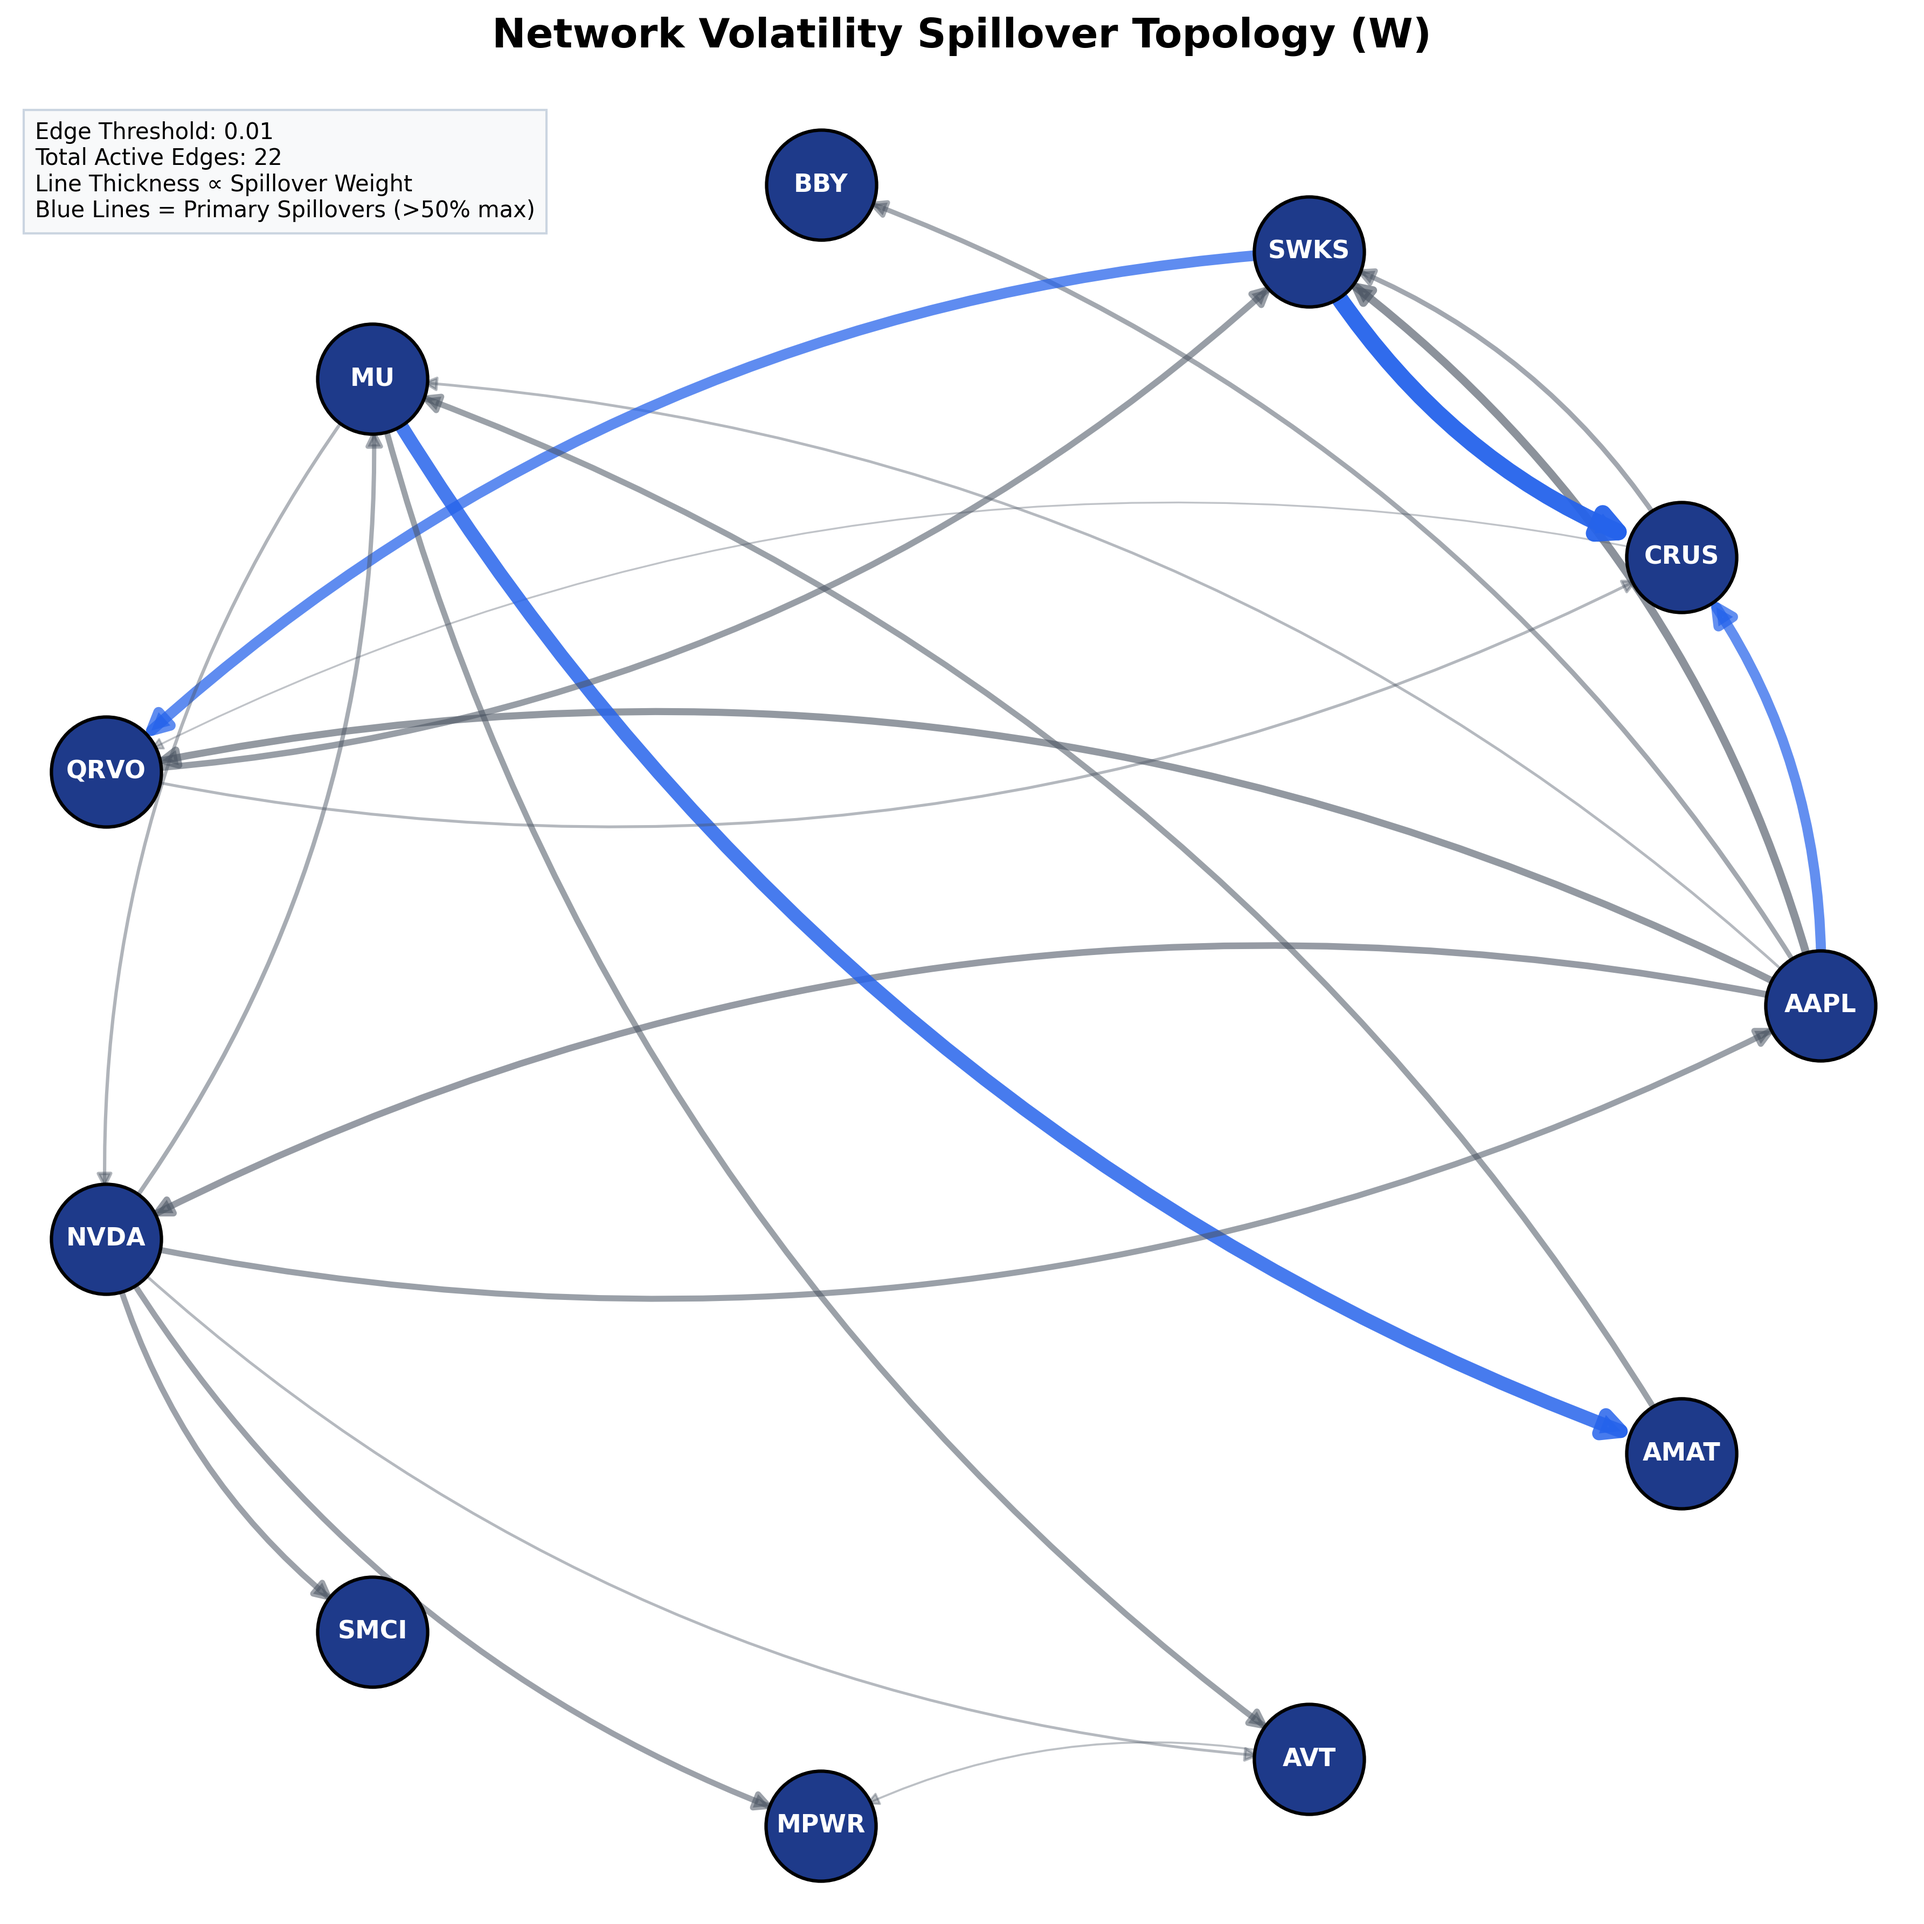
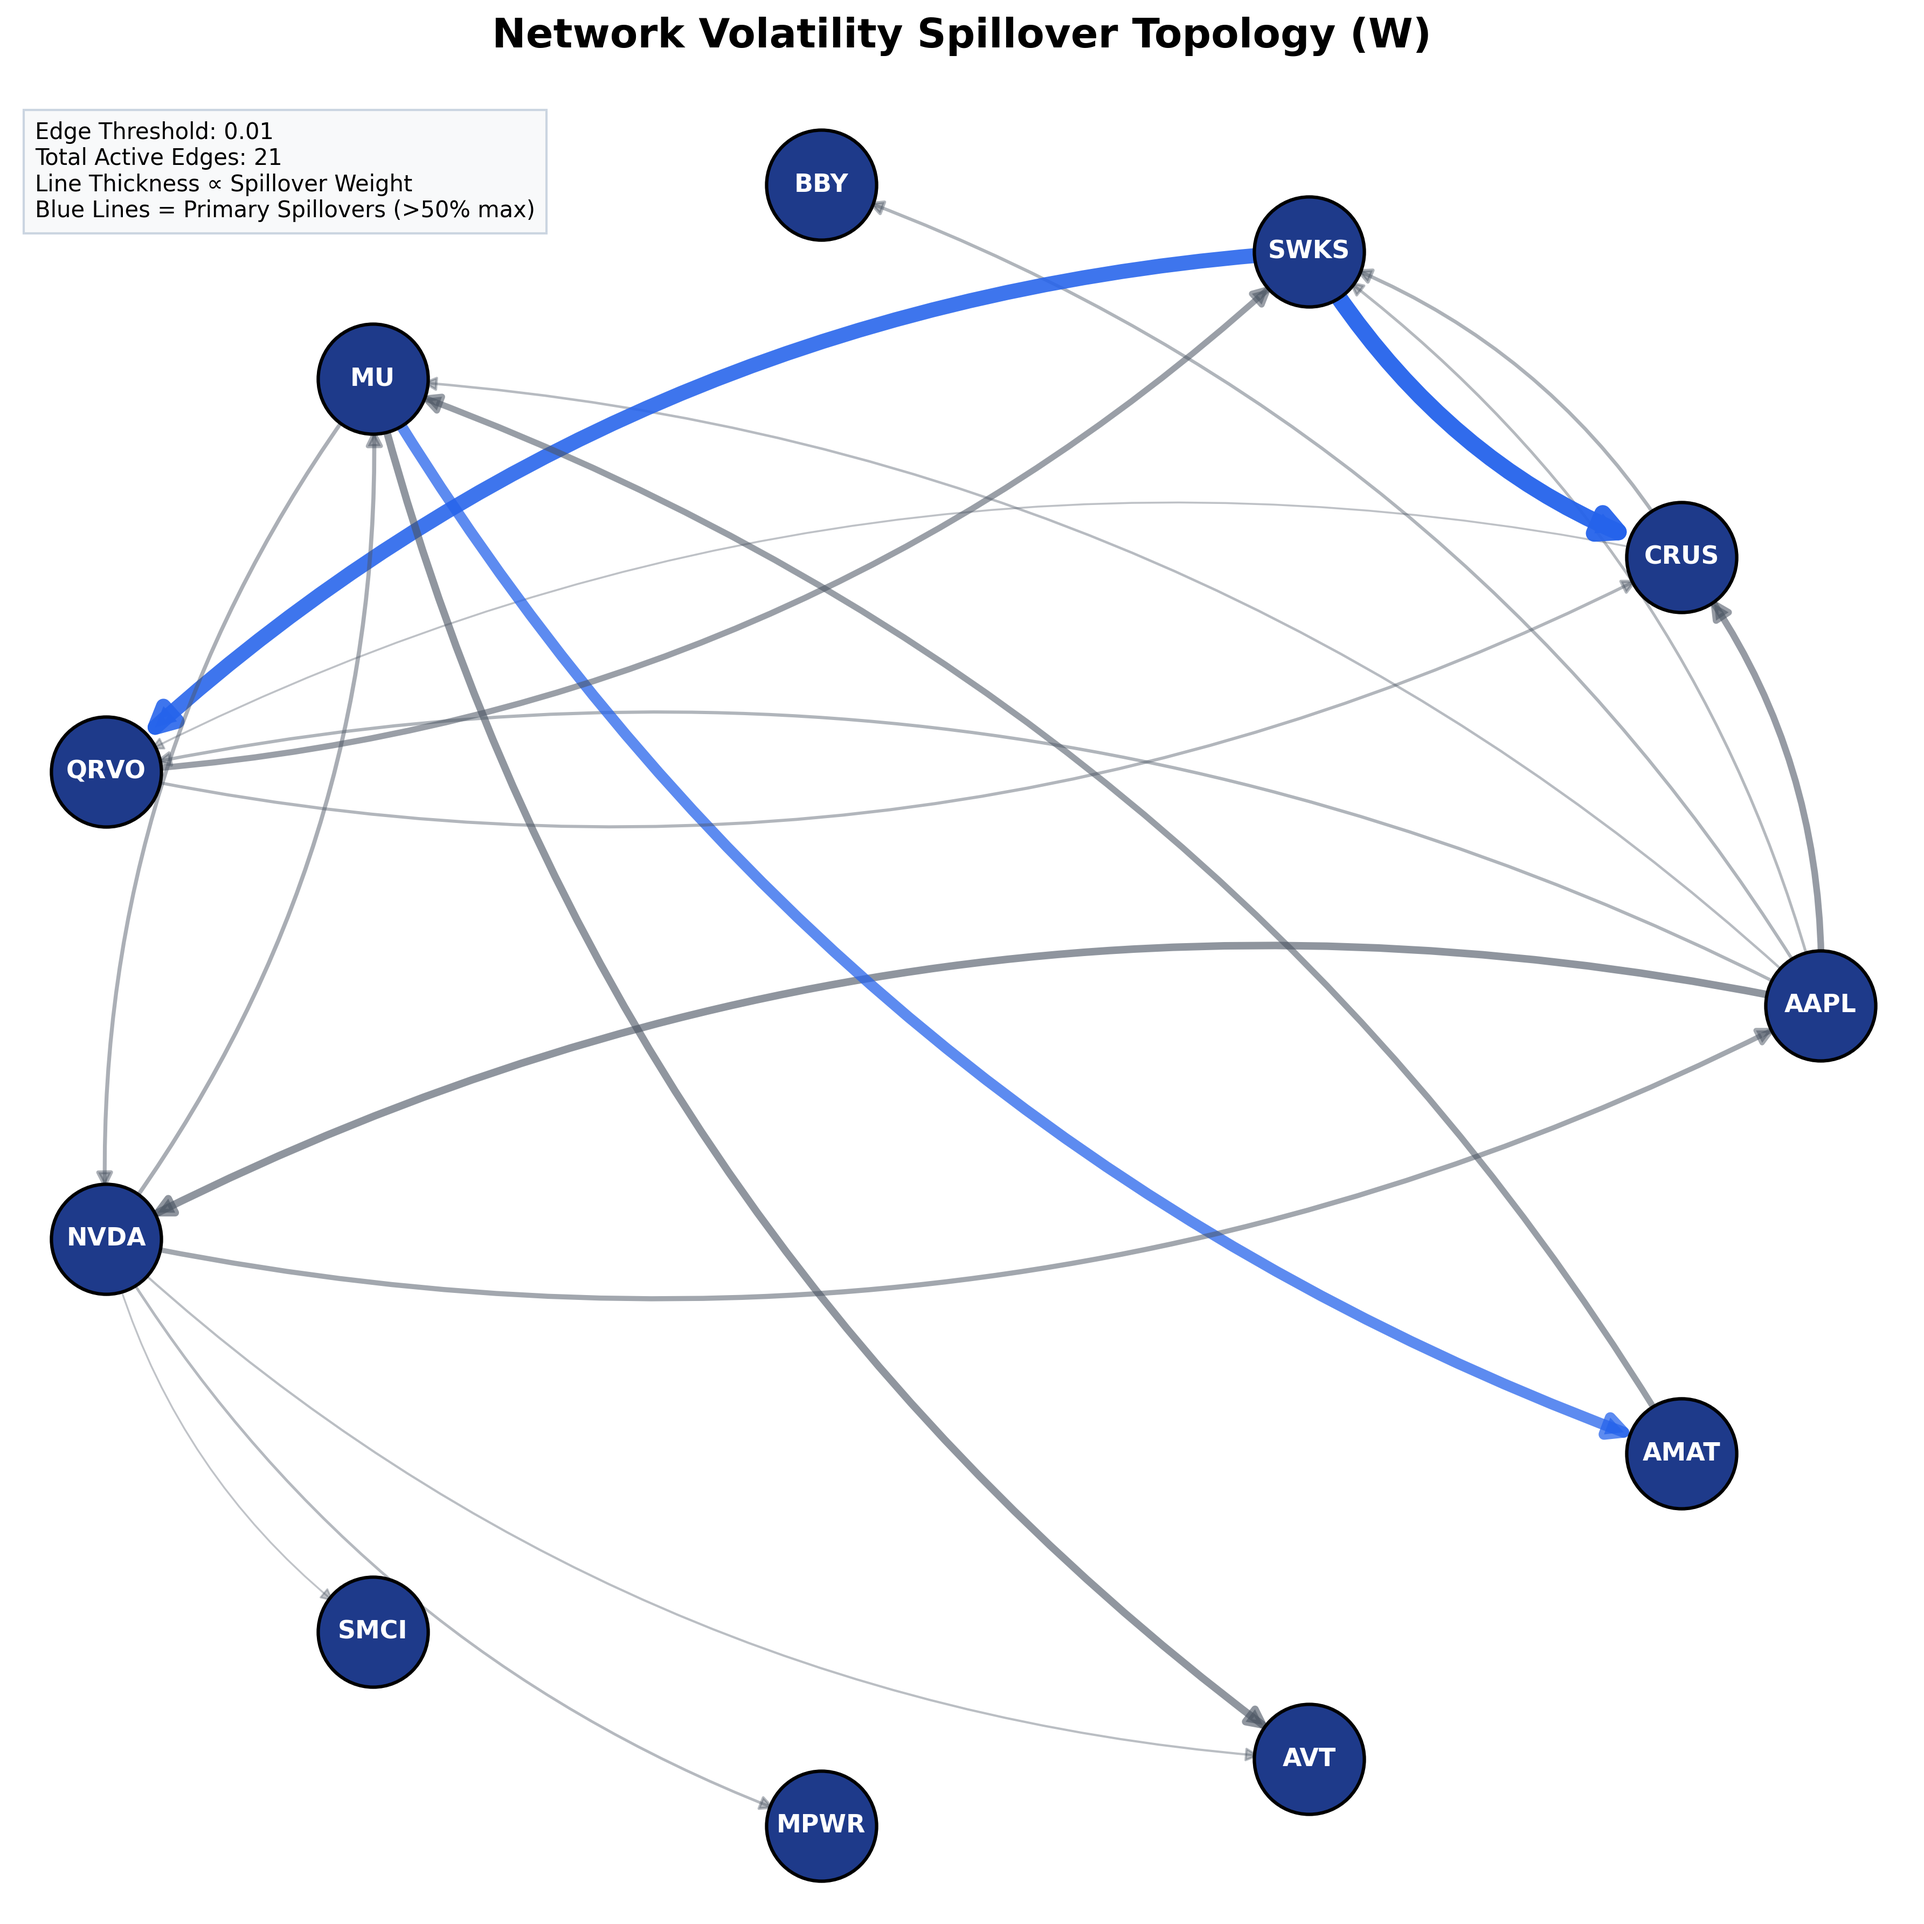
updated W matrix calibration to apply structural mask before running VAR

diff --git a/MarketDataFetcher/data_fetcher.py b/MarketDataFetcher/data_fetcher.py
@@ -7,6 +7,7 @@ from statsmodels.tsa.api import VAR
 import networkx as nx
 import matplotlib.pyplot as plt
 import matplotlib.patches as mpatches
+import statsmodels.api as sm
 
 
 def load_skeleton_and_tickers(skeleton_csv="skeleton_W_matrix.csv"):
@@ -207,6 +208,54 @@ def calculate_kpps_generalized_fevd(var_results, forecast_horizon=10):
     return theta_tilde
 
 
+def fit_constrained_var(iv_dataframe, mask_df, lags=1):
+    """
+    Fits an equation-by-equation Constrained VAR(1) where lag coefficients 
+    for disallowed edges in mask_df are strictly forced to 0.0 during OLS estimation.
+    """
+    tickers = iv_dataframe.columns
+    N = len(tickers)
+    T = len(iv_dataframe) - lags
+    
+    Y = iv_dataframe.iloc[lags:].values
+    X_lag1 = iv_dataframe.shift(1).iloc[lags:].values
+    
+    A1_constrained = np.zeros((N, N))
+    residuals = np.zeros((T, N))
+    
+    for i in range(N):
+        # Identify allowed transmitters into asset i (row i in econometric mask)
+        allowed_indices = np.where(mask_df.iloc[i, :].values == 1.0)[0]
+        
+        X_restricted = X_lag1[:, allowed_indices]
+        X_restricted_with_const = sm.add_constant(X_restricted, has_constant='add')
+        
+        model_i = sm.OLS(Y[:, i], X_restricted_with_const).fit()
+        residuals[:, i] = model_i.resid
+        
+        coeffs = model_i.params[1:]
+        for idx, col_idx in enumerate(allowed_indices):
+            A1_constrained[i, col_idx] = coeffs[idx]
+            
+    sigma_u = np.cov(residuals, rowvar=False)
+    
+    class ConstrainedVARResults:
+        def __init__(self, A1, sigma_u):
+            self.A1 = A1
+            self.sigma_u = type('SigmaU', (), {'values': sigma_u})()
+            self.N = A1.shape[0]
+            
+        def ma_rep(self, maxn=10):
+            A_ma = np.zeros((maxn, self.N, self.N))
+            A_curr = np.eye(self.N)
+            for h in range(maxn):
+                A_ma[h] = A_curr
+                A_curr = A_curr @ self.A1
+            return A_ma
+
+    return ConstrainedVARResults(A1_constrained, sigma_u)
+
+
 def generate_hybrid_W_matrix(iv_dataframe, tickers, mask_df, fevd_steps=10):
     """
     Builds the W matrix by combining a structural binary mask (skeleton) 
@@ -219,14 +268,13 @@ def generate_hybrid_W_matrix(iv_dataframe, tickers, mask_df, fevd_steps=10):
     N = len(tickers)
     mask = mask_df.values
     
-    print("  → Fitting VAR(1) model to Implied Volatilities...")
-    model = VAR(iv_dataframe)
-    results = model.fit(maxlags=1)
+    print("  → Fitting Structurally Constrained VAR(1) to Implied Volatilities...")
+    constrained_results = fit_constrained_var(iv_dataframe, mask_df, lags=1)
     
-    print(f"  → Computing KPPS Generalized Forecast Error Variance Decomposition (Steps={fevd_steps})...")
-    dy_matrix = calculate_kpps_generalized_fevd(results, forecast_horizon=fevd_steps)
+    print(f"  → Computing KPPS Generalized FEVD on Constrained VAR (Steps={fevd_steps})...")
+    dy_matrix = calculate_kpps_generalized_fevd(constrained_results, forecast_horizon=fevd_steps)
     
-    print("  → Applying structural prior mask to DY spillovers...")
+    print("  → Applying structural prior mask to zero out non-supply-chain residual noise...")
     W_filtered = dy_matrix * mask
 
     min_threshold = 0.01  # 1% minimum spillover
